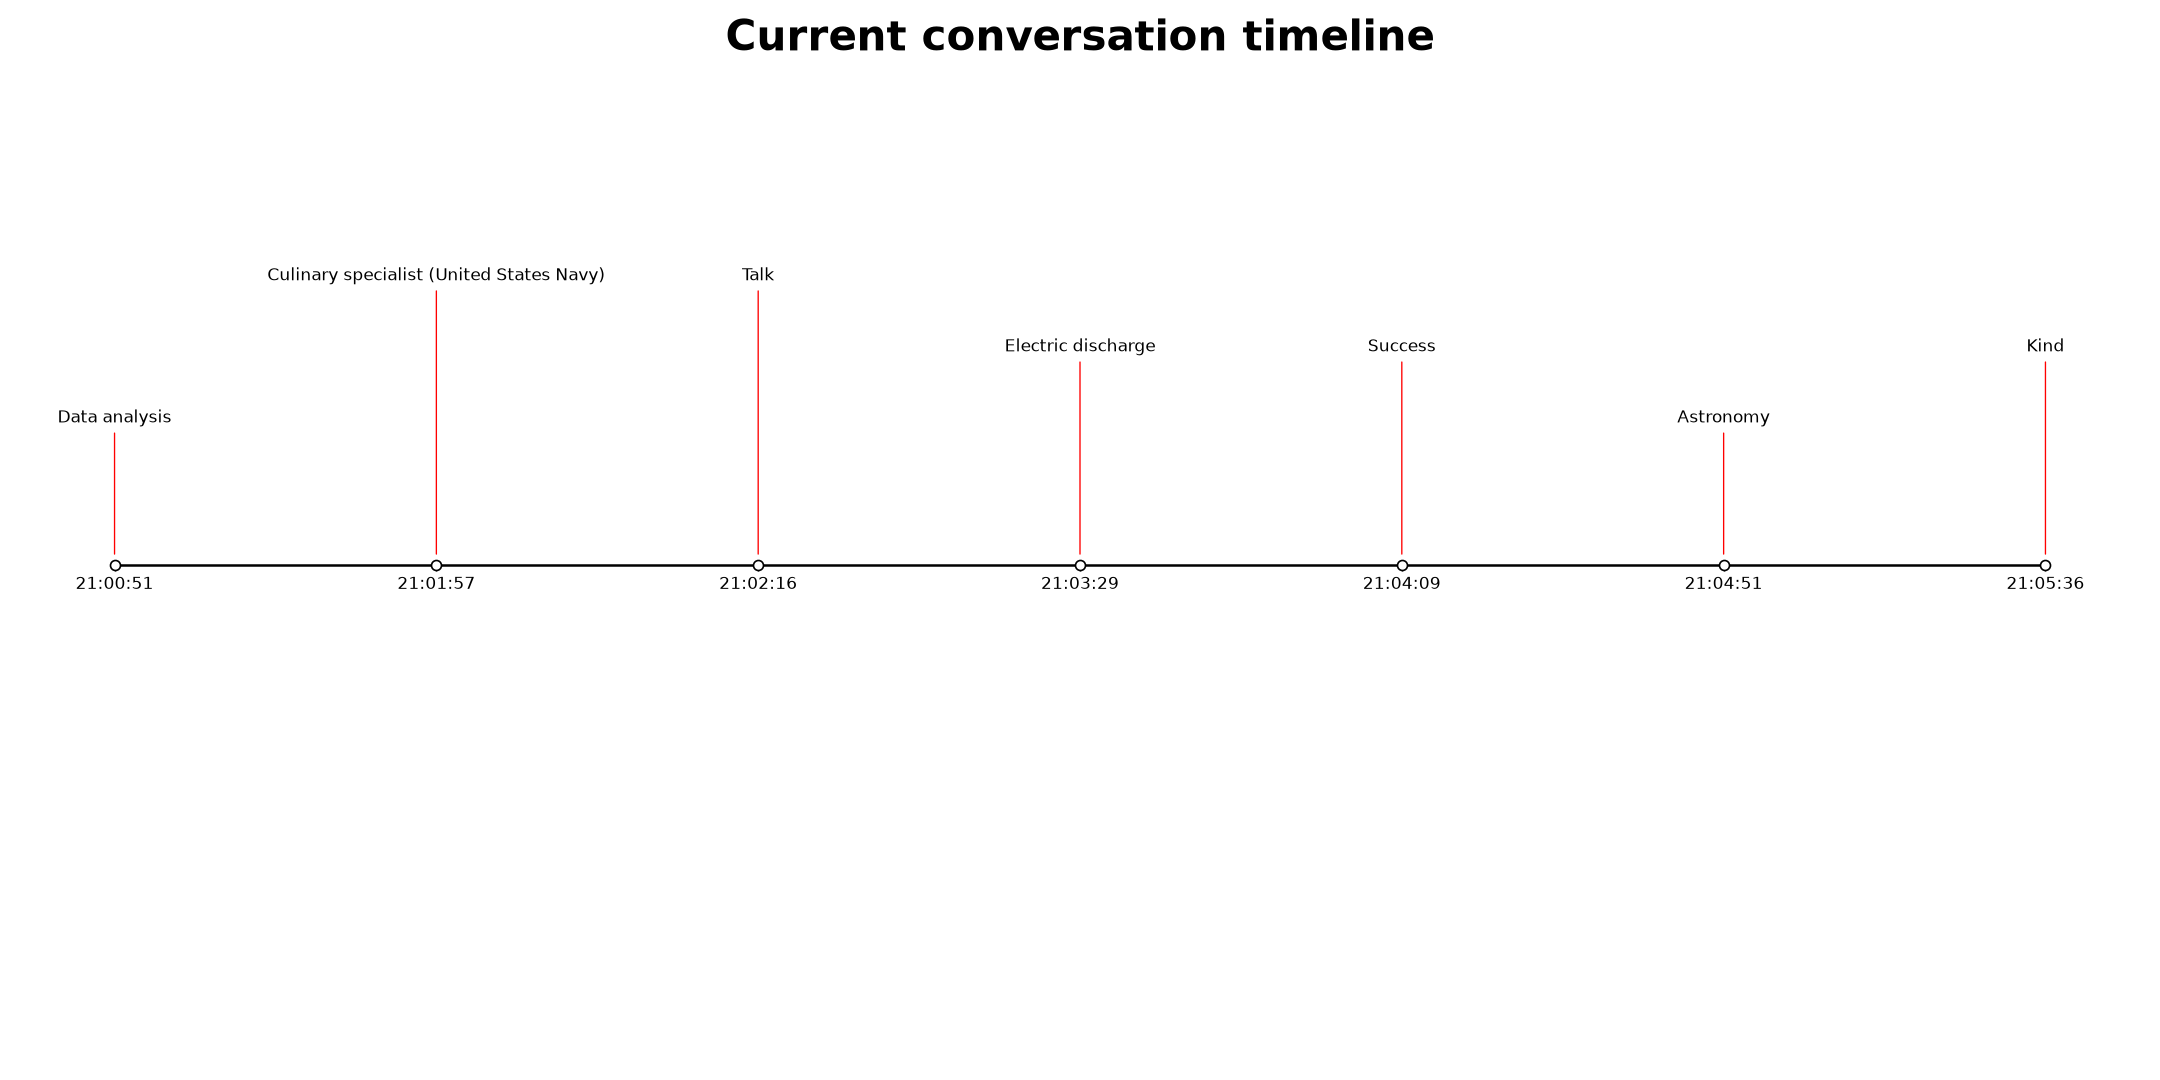
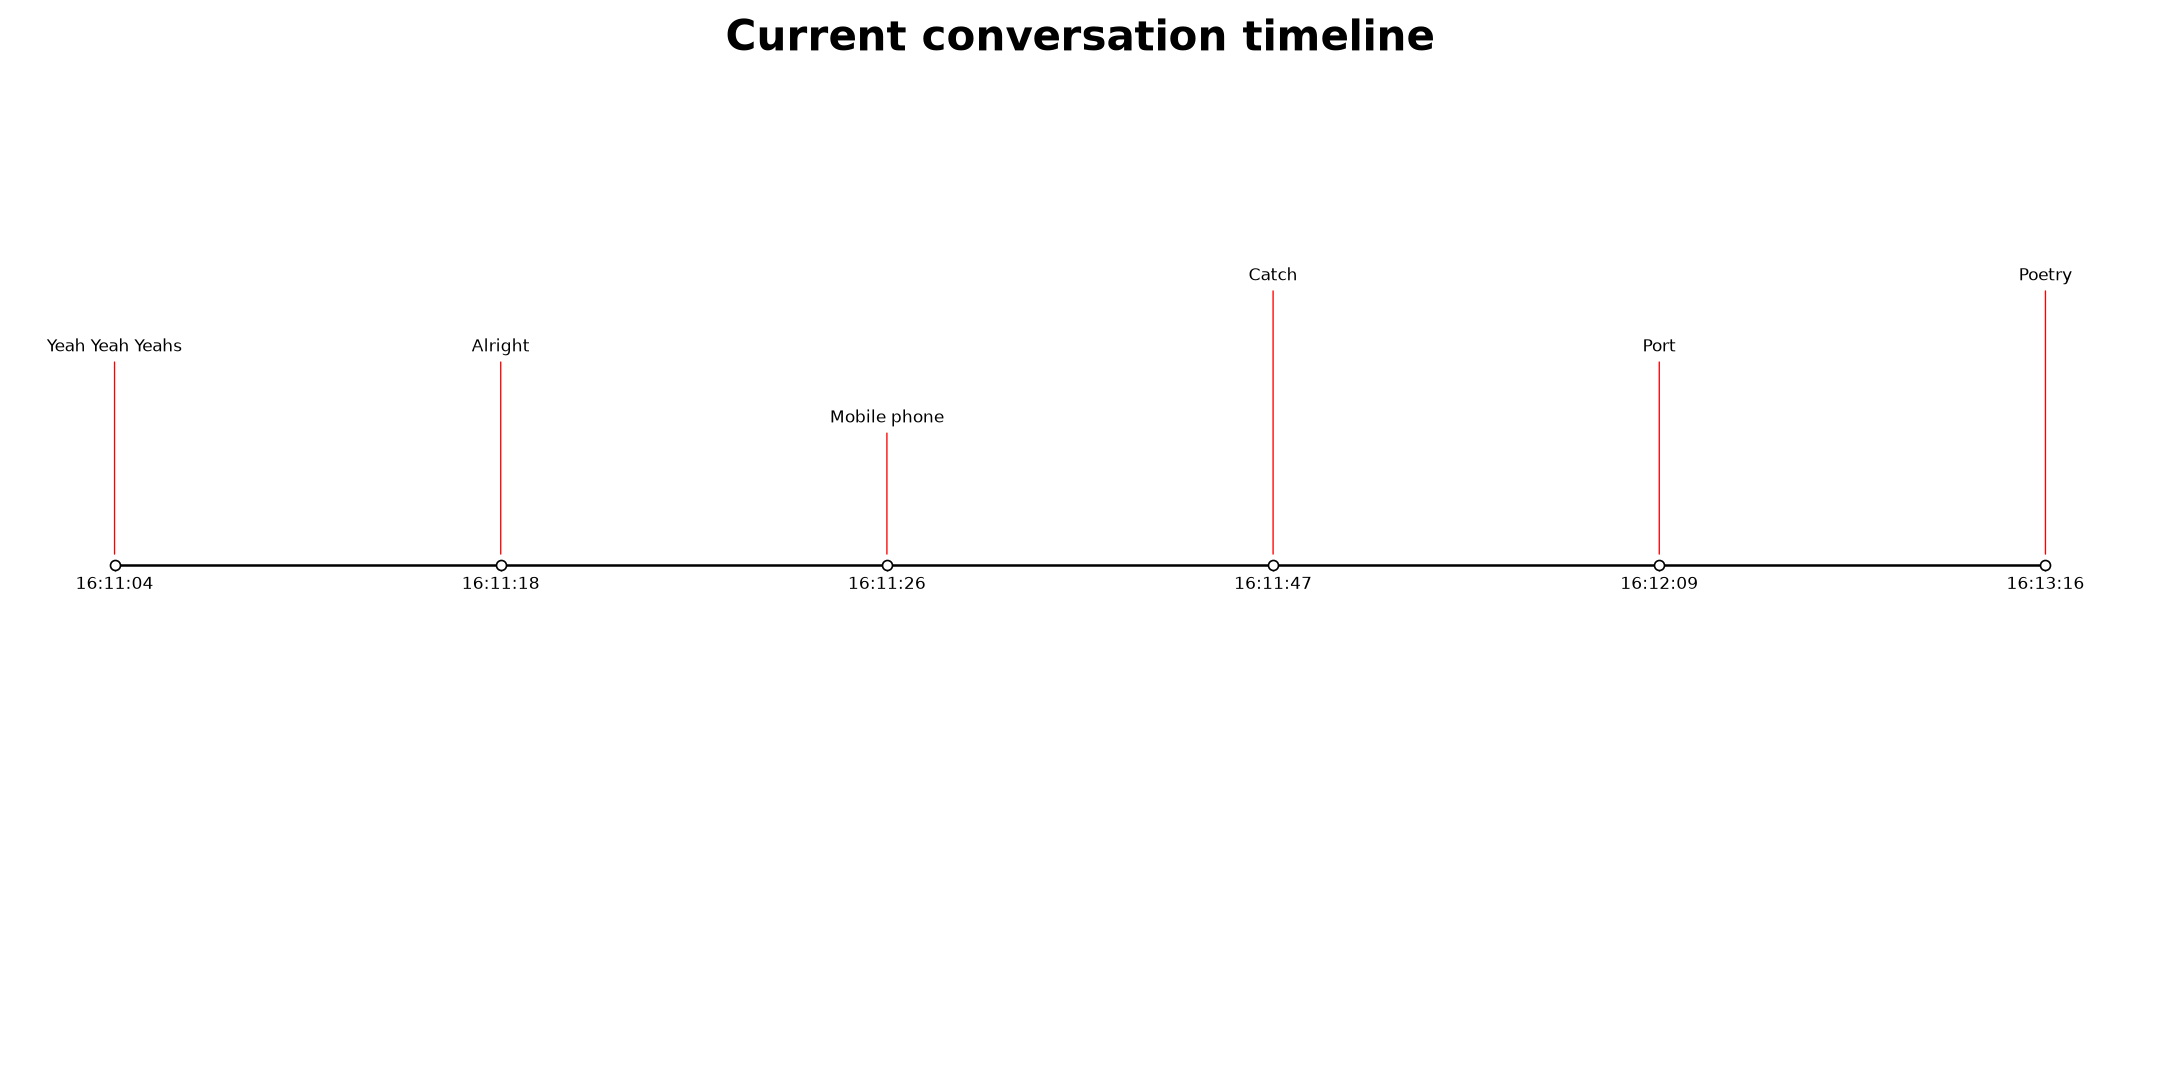
Readmedocs befor publishing

diff --git a/main.py b/main.py
@@ -166,7 +166,7 @@ def process_text(text):
 
 
 # maybe use the one shot to monologue and then the machine can try to predict what what the user is talking about 
-def transcription():
+def transcription(df):
 
     recorder = AudioToTextRecorder(
         transcription_engine="whisper_cpp",
@@ -202,13 +202,10 @@ def transcription():
     # edit: i succumed to the jure of AI to fix the problem, father dont shun me. and whats worse is that it worked
     # lesson: dont get so hardstuck into the way that you wanna do it, open up your mind into other kinds of ways to do it, to might find that it helps your use case even better
 
-    # i gotta keep the mic volume down so that the recorder can sense silince
-    firstTime = True
-    # make sure this runs once
-    if firstTime == True:
-        df = pd.DataFrame()
-        # topic_timeline = df.copy()
-
+    # i gotta keep the mic volume down so that the recorder can sense silence properly
+    # a little consideration: is it better to just pass the df from the main program entry to avoid it being created over again and then having to use the
+    #   weird isFirstTime switch that opens on start and then closes on the next go around in the loop, performance? security? other?
+    
     while True:
         try:
             text = recorder.text()              # blocks until transcription is ready
@@ -255,7 +252,8 @@ if __name__ == "__main__":
             # data flow must happen here mainly
         
             max_page_suggestions = 3
-            transcription()
+            df = pd.DataFrame()
+            transcription(df)
             
             print("right after transcription halt")
 

diff --git a/README.MD b/README.MD
@@ -1,0 +1,63 @@
+# Where-were-we?: A speech-to-text and topic anaylzer program
+
+This project allows to user to have their speech transcribed and have the content of the speech be analyzed for what they are talking about.   
+
+## Features
+
+- Speech-to-text
+- Topic analysation
+- Visual tracking of the topics with time stamps 
+
+## Demo / Screenshot
+
+![screenshot](path/to/screenshot.png)
+
+## Installation
+
+```bash
+git clone https://github.com/enkhosini/repo-name.git
+cd repo-name
+npm install
+```
+
+## Usage
+
+First make a python virtual environment and install the requiremnts from the requirements.txt
+(in linux)
+```bash
+python -m venv .venv
+source .venv/bin/activate
+pip install -r requirments.txt
+```
+
+### For the webpage run the following command then open the website link:
+```bash
+python app.py
+```
+
+## Configuration
+
+I am planning to add better configuration for the program from terminal parameters, this is the MVP
+
+## Roadmap
+
+- [x] Speech-to-text 
+- [x] Keyword Extraction
+- [x] Topic search via API
+- [x] Add visual description of the conversation timeline
+- [ ] Add in-built or API accessed model for topic analyzation
+- [ ] Calculate the nicheness of the topic at hand and display on the timeline 
+ 
+## Contributing
+
+Contributions are welcome! Please fork the repo and open a pull request.
+
+## License
+
+This project is licensed under the [MIT License](LICENSE).
+
+## Contact
+
+Your Name – [@leiklo](https://www.instagram.com/leiklo/) – [email redacted]
+
+Project Link: [https://github.com/username/repo-name](https://github.com/username/repo-name)